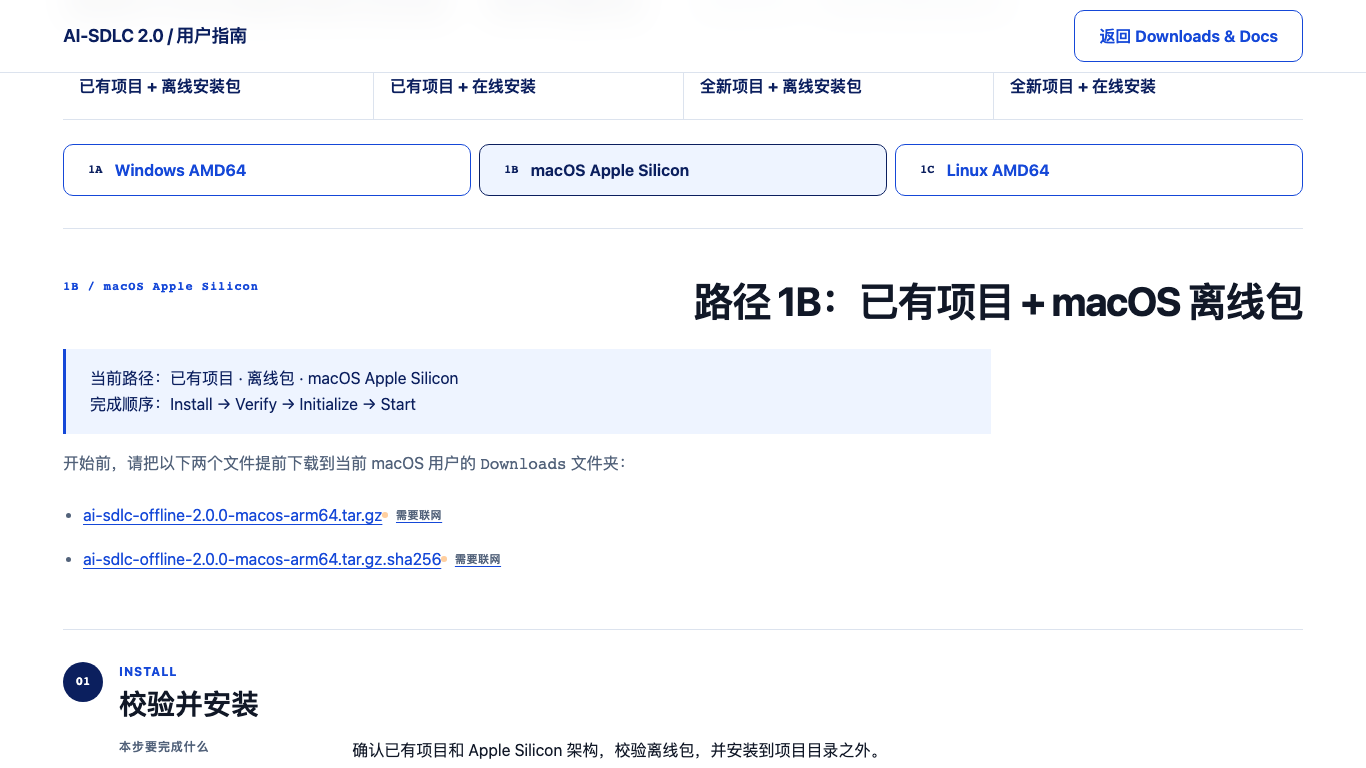
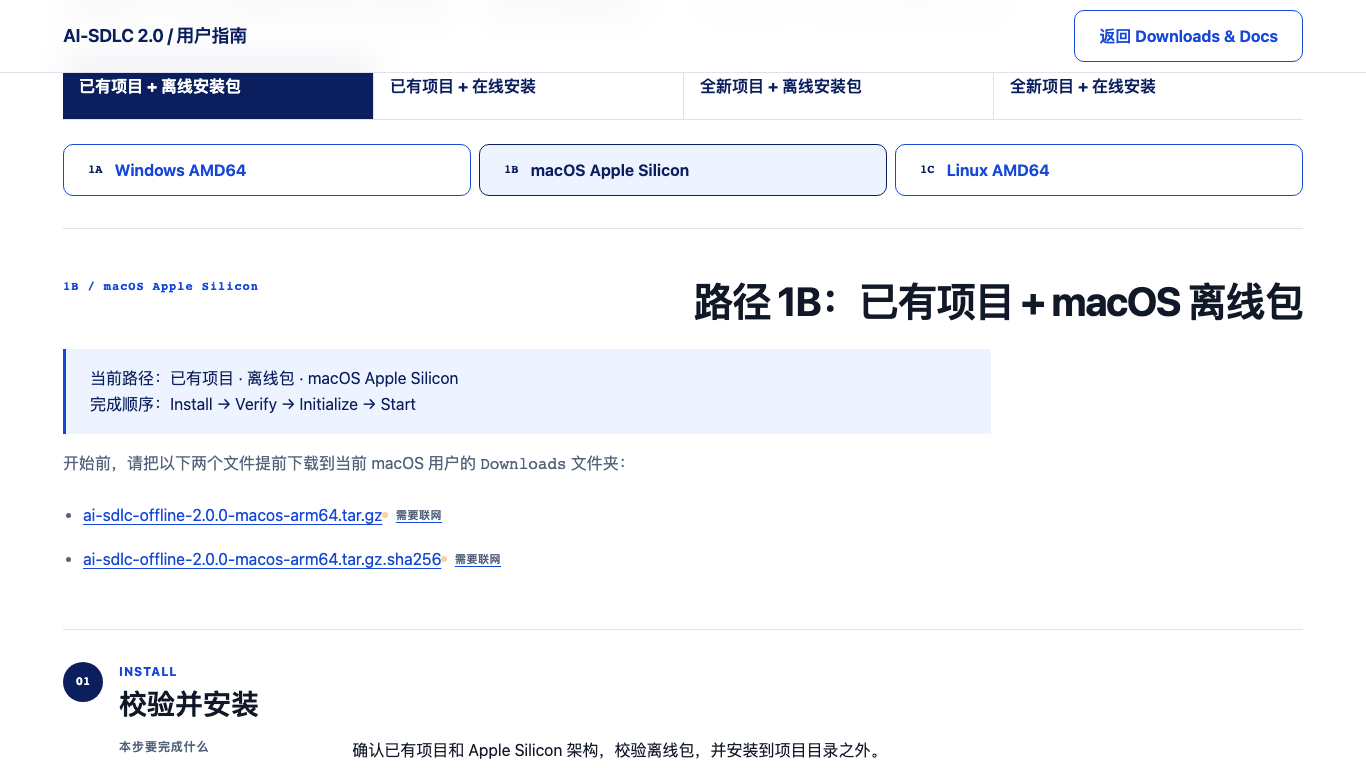
test: refresh guide screenshot evidence

Changed region(s): [[0.0307, 0.0938, 0.2767, 0.1562]]

diff --git a/docs/product-site/design/qa/interaction-verification.md b/docs/product-site/design/qa/interaction-verification.md
@@ -47,8 +47,22 @@
[6 lines of base64/hex data omitted]
+
+## Fix Round 1：指南代表截图同步
+
+独立评审发现原 `guide-1366x768.png` 没有显示 final JS 已设置的高层场景选中态，因此仅重新生成该证据，不修改运行时代码。截图前在同一个 `1366×768` Chromium `file://` 状态中硬断言：
+
+- “已有项目 + 离线安装包”的 `aria-current="true"`；
+- `1B macOS Apple Silicon` 的 `aria-selected="true"`；
+- `#path-1b` 面板 `hidden=false` 且具有可见尺寸；
+- URL Hash 精确为 `#path-1b`；
+- 场景选择器和 OS Tab 均位于截图可见区域；console error 与 page error 均为 `0`。
+
[1 lines of base64/hex data omitted]
+
+证据同步后复跑结果：`93 passed in 0.79s`；Ruff `All checks passed!`；validator `OFFLINE_PRODUCT_SITE_VALID`；两个 Node syntax check 与 `git diff --check` 均 exit `0`。
 
 ## 视觉并排复核
 
